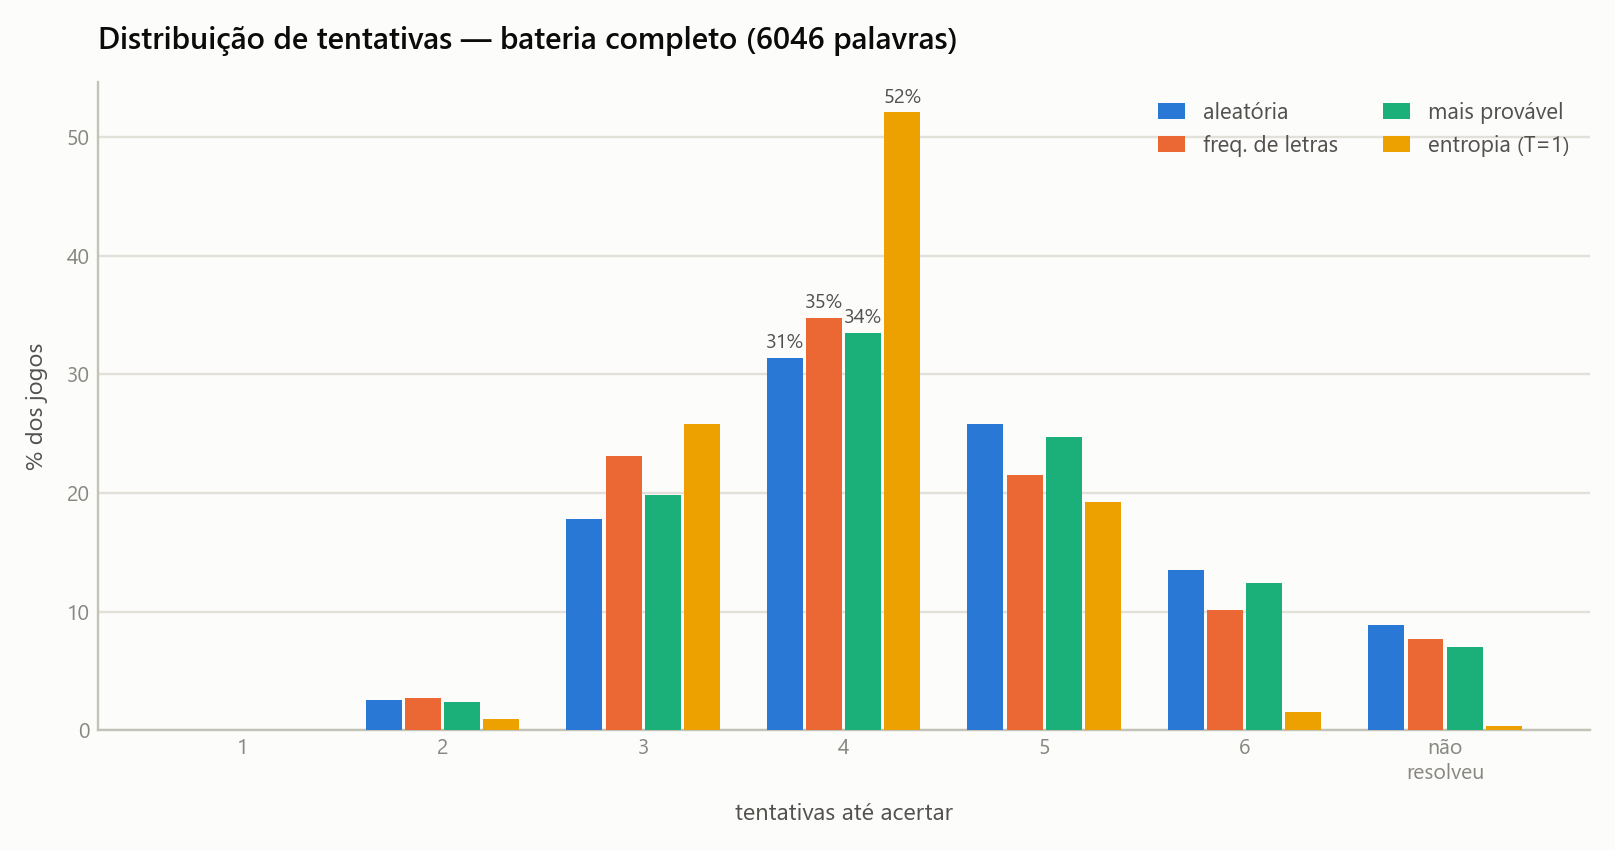
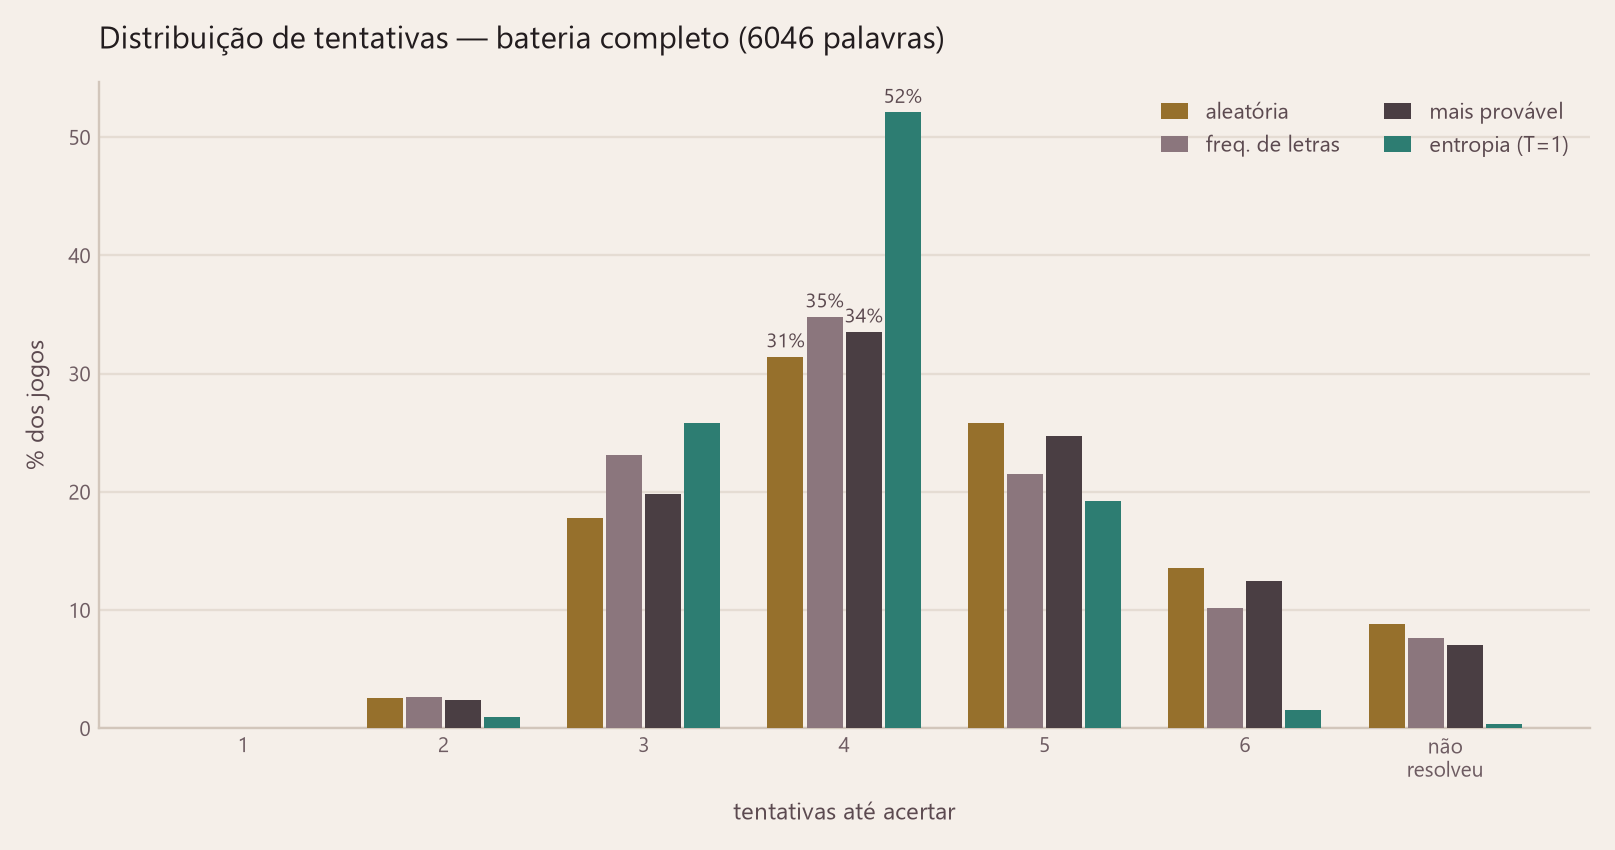
Aplica a marca no README e nos gráficos
README: banner e tagline no topo, seção "Marca" no fim apontando para brand/,
com a paleta e a lista de arquivos a copiar para o diretório público quando
existir um front-end.

O banner referencia brand/og-banner.svg, não o .png: o PNG que brand/README.md
documenta não está no diretório, e brand/build.sh não roda aqui (falta o cairo
nativo e o imagemagick). Trocar a extensão quando o PNG existir.

analise.py: séries derivadas da paleta da marca, uma rampa por matiz. Duas
decisões que não são estéticas:

  1. O verde é exclusivo da série de entropia — no vocabulário do Termo ele
     significa "acerto", então só a estratégia vencedora o usa. Isso também
     resolve o encaixe de 4 séries categóricas em 3 matizes, que não tem solução
     com dois verdes: o verde da marca precisa escurecer para ter contraste
     sobre o osso, e aí os dois colidem (dE76 10,9 sob deuteranopia).
  2. O dourado fica no slot 0, não-adjacente ao verde, porque dourado ao lado de
     verde é justamente o par que colapsa sob deuteranopia.

Medido com simulação de CVD (deutan/protan/tritan): todo par de séries,
adjacente ou não, fica acima de 20 de dE76, e cada série tem ao menos 3:1 de
contraste contra a superfície. A paleta de referência anterior passava nos pares
adjacentes mas colapsava em 5,7 no par laranja/dourado, que não é adjacente mas
coexiste no mesmo gráfico.

O tema claro usa passos escurecidos das mesmas rampas — o osso é claro demais
para os hex nominais.
[…]

diff --git a/analise.py b/analise.py
@@ -27,27 +27,45 @@ import matplotlib.pyplot as plt  # noqa: E402
 
 DIR_RESULTADOS = Path(__file__).resolve().parent / "resultados"
 
-# Paleta categórica de referência da skill de dataviz, slots 1-4, usada sem
-# alteração. Passa os limiares de CVD na lista de pares adjacentes (barras
-# agrupadas), que é o caso aqui.
+# Paleta da marca (brand/README.md), uma rampa por matiz. Duas decisões que não
+# são estéticas:
+#
+# 1. O verde é exclusivo da série de entropia. No vocabulário do Termo ele
+#    significa "acerto", então só a estratégia vencedora o usa — e isso resolve
+#    de quebra o problema de encaixar 4 séries categóricas em 3 matizes, que não
+#    tem solução com dois verdes (o verde da marca precisa escurecer para ter
+#    contraste sobre o osso, e aí os dois verdes colidem).
+# 2. O dourado fica no slot 0, não-adjacente ao verde: dourado ao lado de verde
+#    é justamente o par que colapsa sob deuteranopia.
+#
+# Verificado por simulação de CVD (deutan/protan/tritan): todo par de séries,
+# adjacente ou não, fica acima de 20 de dE76, e cada série tem ao menos 3:1 de
+# contraste contra a superfície. A paleta de referência anterior passava nos
+# pares adjacentes mas colapsava em 5,7 no par laranja/dourado.
+#
+# A ordem das séries segue a dos JSONs do benchmark: aleatória, freq. de letras,
+# mais provável, entropia.
 TEMAS = {
     "claro": {
-        "series": ["#2a78d6", "#eb6834", "#1baf7a", "#eda100"],
-        "superficie": "#fcfcfb",
-        "tinta": "#0b0b0b",
-        "tinta2": "#52514e",
-        "apagada": "#898781",
-        "grade": "#e1e0d9",
-        "eixo": "#c3c2b7",
+        # Passos escuros das rampas — o osso é claro demais para os hex nominais.
+        "series": ["#96702C", "#8B767D", "#4A3E43", "#2D7D72"],
+        "superficie": "#F5EFE9",  # osso
+        "tinta": "#221C1E",  # ardósia
+        "tinta2": "#5C4A50",
+        "apagada": "#6E5C62",  # xisto
+        "grade": "#E5DCD3",
+        "eixo": "#D2C6BB",
+        "destaque": "#2D7D72",
     },
     "escuro": {
-        "series": ["#3987e5", "#d95926", "#199e70", "#c98500"],
-        "superficie": "#1a1a19",
-        "tinta": "#ffffff",
-        "tinta2": "#c3c2b7",
-        "apagada": "#898781",
-        "grade": "#2c2c2a",
-        "eixo": "#383835",
+        "series": ["#D3AD69", "#CFC2C7", "#96818A", "#3AA394"],
+        "superficie": "#221C1E",  # ardósia
+        "tinta": "#F5EFE9",  # osso
+        "tinta2": "#A89AA0",
+        "apagada": "#9A888E",  # xisto clareado: 4,5:1 sobre a ardósia
+        "grade": "#35292D",
+        "eixo": "#4A3B40",
+        "destaque": "#3AA394",  # verde
     },
 }
 
@@ -161,7 +179,7 @@ def grafico_temperatura(resultados: list[dict], modo: str) -> Path:
         (cima, medias, "Tentativas médias (derrota conta como 7)", ""),
         (baixo, vitorias, "Taxa de vitória em 6 tentativas", "%"),
     ):
-        eixos.plot(posicoes, valores, color=tema["series"][0], linewidth=2.0,
+        eixos.plot(posicoes, valores, color=tema["destaque"], linewidth=2.0,
                    marker="o", markersize=8, markeredgewidth=2,
                    markeredgecolor=tema["superficie"], zorder=3)
         eixos.set_title(titulo, color=tema["tinta"], fontsize=11, loc="left", pad=10)

diff --git a/README.md b/README.md
@@ -1,3 +1,9 @@
+<p align="center">
+  <img src="brand/og-banner.svg" alt="Destermo" width="720">
+</p>
+
+<p align="center"><em>O palpite ótimo do Termo, calculado em bits.</em></p>
+
 # Destermo
 
 Solver de [Termo](https://term.ooo) baseado em entropia de Shannon, com prior de
@@ -298,3 +304,32 @@ silenciosamente errados.
 Dueto e Quarteto; Nível 3 do algoritmo (minimização direta de tentativas
 esperadas); curadoria manual adicional do léxico; interface web/bot/API;
 separação formal entre lista de respostas e lista de tentativas válidas.
+
+## Marca
+
+Os ativos de marca — símbolo, lockup, favicons, ícones de app e banner Open
+Graph — ficam em [`brand/`](brand/). A tabela de qual arquivo usar quando, a
+paleta e o tamanho mínimo do símbolo estão em
+[brand/README.md](brand/README.md).
+
+A paleta é a mesma em qualquer saída colorida (CLI, gráficos, web):
+
+| | hex | papel |
+|---|---|---|
+| verde | `#3AA394` | marca, acerto |
+| dourado | `#D3AD69` | letra fora de lugar |
+| xisto | `#6E5C62` | letra ausente, texto terciário |
+| ardósia | `#221C1E` | fundo escuro |
+| osso | `#F5EFE9` | texto sobre escuro |
+
+Os gráficos de [analise.py](analise.py) derivam suas séries dessas cinco cores.
+
+Não edite os arquivos de `brand/` à mão: os PNGs e o `.ico` são gerados a partir
+dos SVGs por `brand/build.sh` (requer `cairosvg` e `imagemagick`).
+
+Quando existir um front-end, copie para a raiz do diretório público
+`favicon.ico`, `favicon.svg`, `apple-touch-icon.png`, `icon-192.png`,
+`icon-512.png`, `manifest.webmanifest` e `og-banner.png`, e cole o conteúdo de
+[brand/head-snippet.html](brand/head-snippet.html) no `<head>`.
+
+Estes ativos **não** estão sob a licença MIT do repositório.
